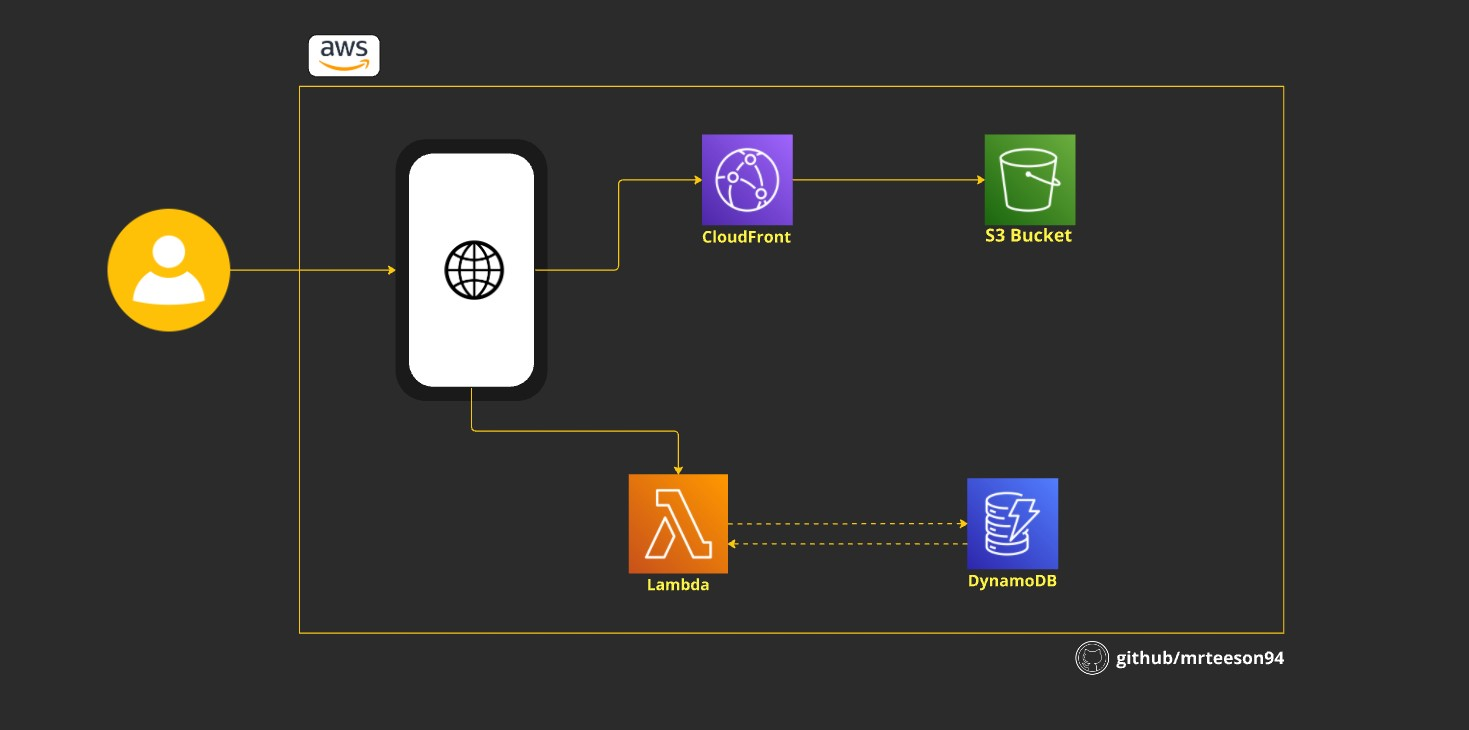
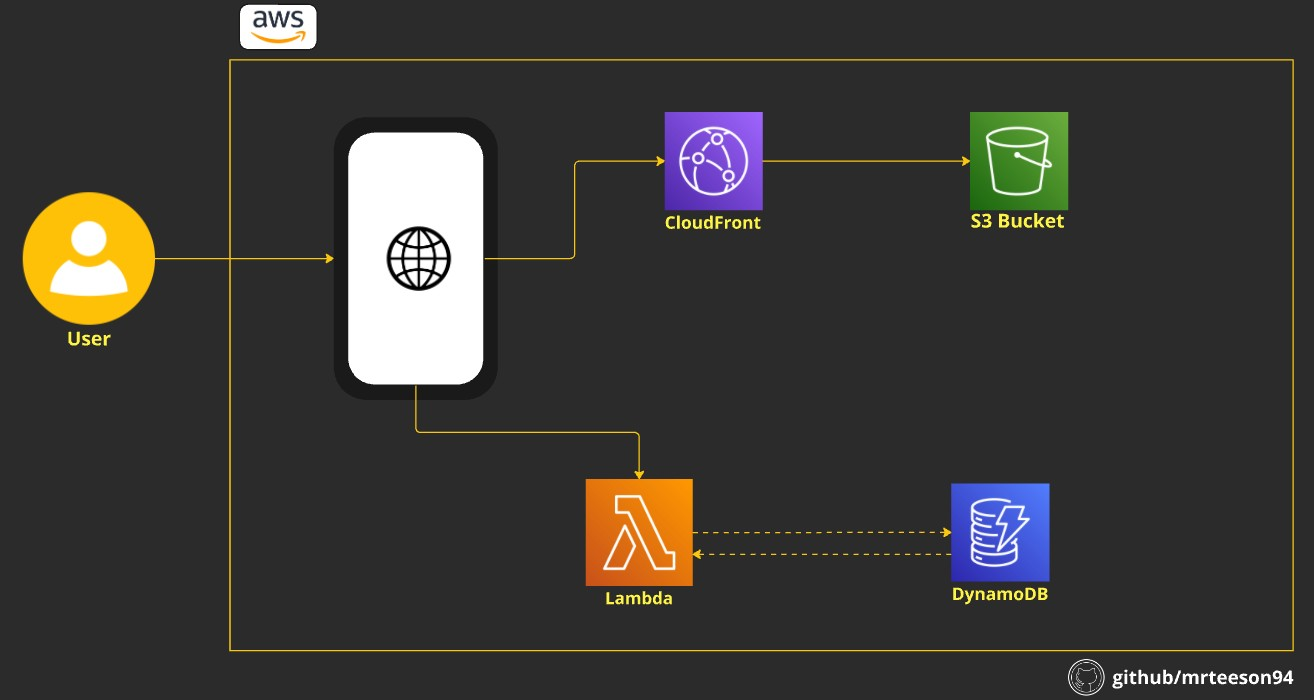
updated diagram.jpg and updated html about me section with the tech-stack diagram

diff --git a/website/frontend/index.html b/website/frontend/index.html
@@ -94,6 +94,29 @@
          </div> <!-- end .main-col -->
 
       </div>
+      <br>
+      <div class="row">
+
+         <div class="three columns">
+         </div>
+
+         <div class="nine columns main-col">
+
+            <h2>Project's Technology Stack</h2>
+            <!-- <span><a href="https://github.com/mrteeson94/Jellyfin-project">homelab enthusiast</a></span> -->
+             <li>Terraform (IaC)</li> 
+             <li>Github Action (CI/CD)</li> 
+             <li>HTML</li> 
+             <li>CSS</li> 
+             <li>Javascript</li> 
+             <li>Python</li> 
+             <li>AWS Cloud serverless infrastructure (S3, CloudFront, Lambda, DynamoDB, CloudWatch)</li> 
+         </br>
+      </br>
+      <img src="/website/frontend/images/diagram.jpg" class="diagram">
+   </div> <!-- end .main-col -->
+
+      </div>
 
    </section> <!-- About Section End-->
 

diff --git a/website/frontend/js/main.js b/website/frontend/js/main.js
@@ -7,9 +7,10 @@ console.log("JS triggered")
 // #Function sends a request to lambda function which lambda will return JSON file containing the updated view counter data.
 async function updateCounter() {
   try{
-    let response = await fetch("https://kn3ighjdokzlf7gzssmkvzom2y0kcubx.lambda-url.ap-southeast-2.on.aws/")
-    let data = await response.json();
-    console.log(`aws lambda respond with current view: ${data}`);
+    // let response = await fetch("https://kn3ighjdokzlf7gzssmkvzom2y0kcubx.lambda-url.ap-southeast-2.on.aws/")
+    // let data = await response.json();
+    let data = 25;
+    // console.log(`aws lambda respond with current view: ${data}`);
     document.getElementById("counter").innerText = data;
     console.log("exit function")
   } catch(error){
